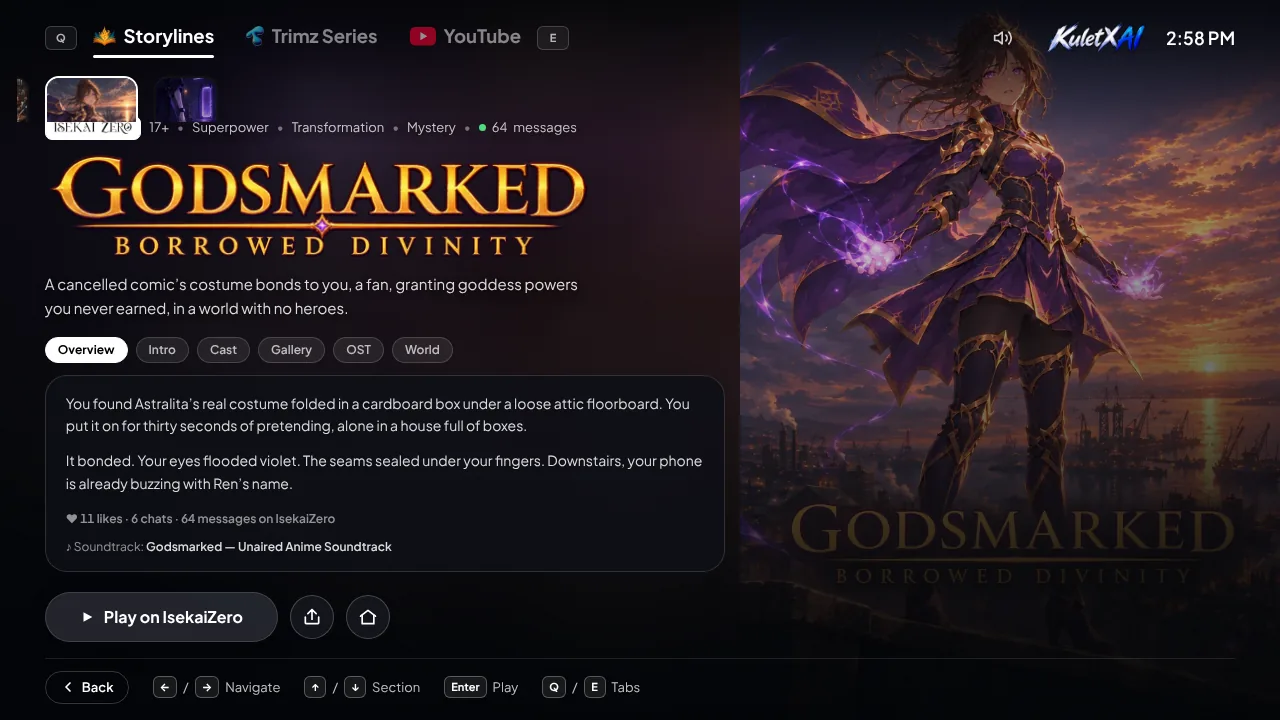
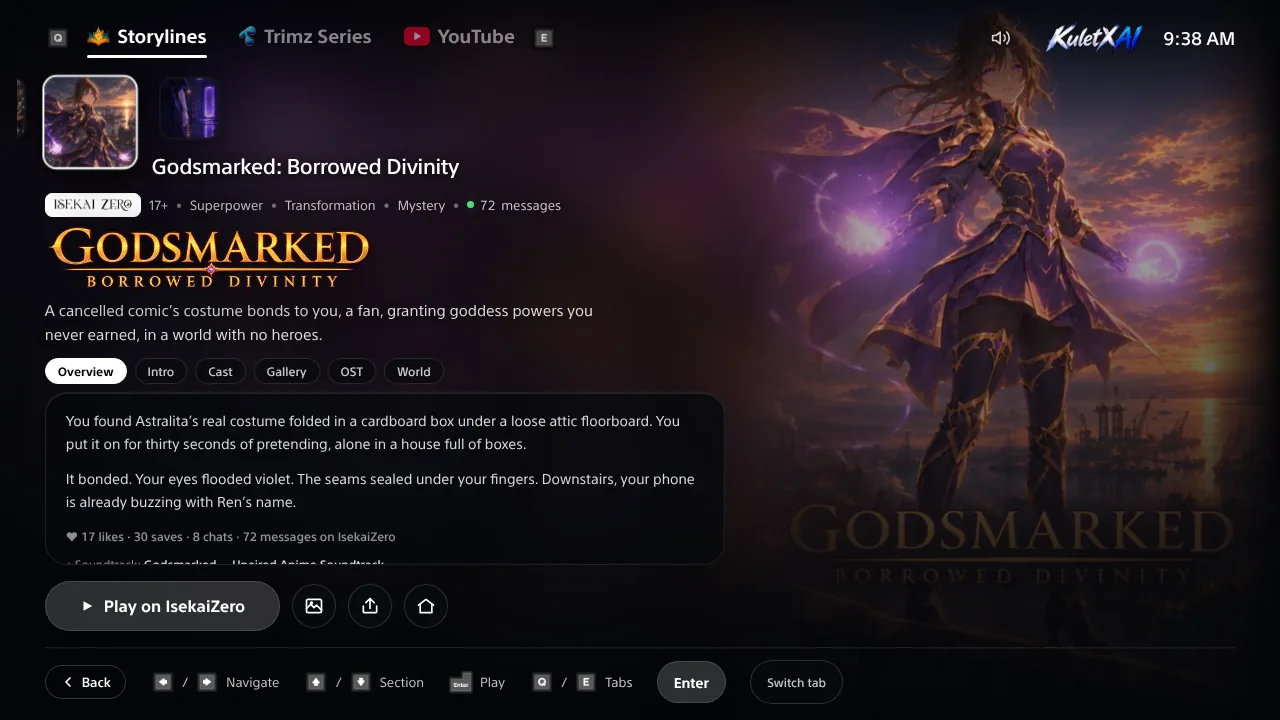
Hub: tapping a tile selects it again, and the ribbon keeps its height on 720p screens
The 3D depth put tiles behind their slot's plane, so the slot took every tap in full mode.
The ribbon could shrink to its padding in the locked console column, dropping the tiles onto the
meta line below 820px tall; short desktop screens now trim the logo, panel and gaps instead.
The README screenshot is retaken.

Claude-Session: https://claude.ai/code/session_017vDDw5Np6XLQTPmsqGpkok

diff --git a/src/styles.css b/src/styles.css
@@ -470,6 +470,8 @@ svg.ps5-picon {
 }
 
 .ps5-ribbon {
+  /* A scroller can shrink to nothing in the hub's flex column, which drops the tiles onto the meta line on short screens */
+  flex-shrink: 0;
   margin: 0 clamp(-28px, -3.5vw, -16px) -30px;
   padding: 16px clamp(16px, 3.5vw, 28px) 46px;
   overflow-x: auto;
@@ -531,6 +533,11 @@ html:not(.kx-lite) .ps5-ribbon-row {
 }
 html:not(.kx-lite) .ps5-tile-slot {
   transform-style: preserve-3d;
+  /* Tiles sit behind the slot's plane, so the slot would take every tap */
+  pointer-events: none;
+}
+html:not(.kx-lite) .ps5-tile-slot > * {
+  pointer-events: auto;
 }
 html:not(.kx-lite) .ps5-tile:not(.is-active) {
   transform: rotateY(calc(var(--side, 0) * -16deg)) translateZ(calc(var(--dist, 0) * -14px));
@@ -1384,6 +1391,21 @@ html.kx-lite .ps5-boot-dots { animation: none; }
 }
 @media (prefers-reduced-motion: reduce) {
   .kx-live-dot::after { animation: none; }
+}
+
+/* 720p and 768p laptops: the console layout is locked to the viewport, so trim the logo, panel and gaps
+   instead of letting Play and the footer fall below it */
+@media (min-width: 768px) and (min-height: 541px) and (max-height: 820px) {
+  .ps5-details {
+    gap: 8px;
+    padding-top: 8px;
+  }
+  .ps5-logo {
+    max-height: 9vh;
+  }
+  .ps5 .ps5-panel {
+    max-height: 24vh;
+  }
 }
 
 /* Short landscape screens (phones on their side, small windows): the console layout locks to the viewport from 768px up,
